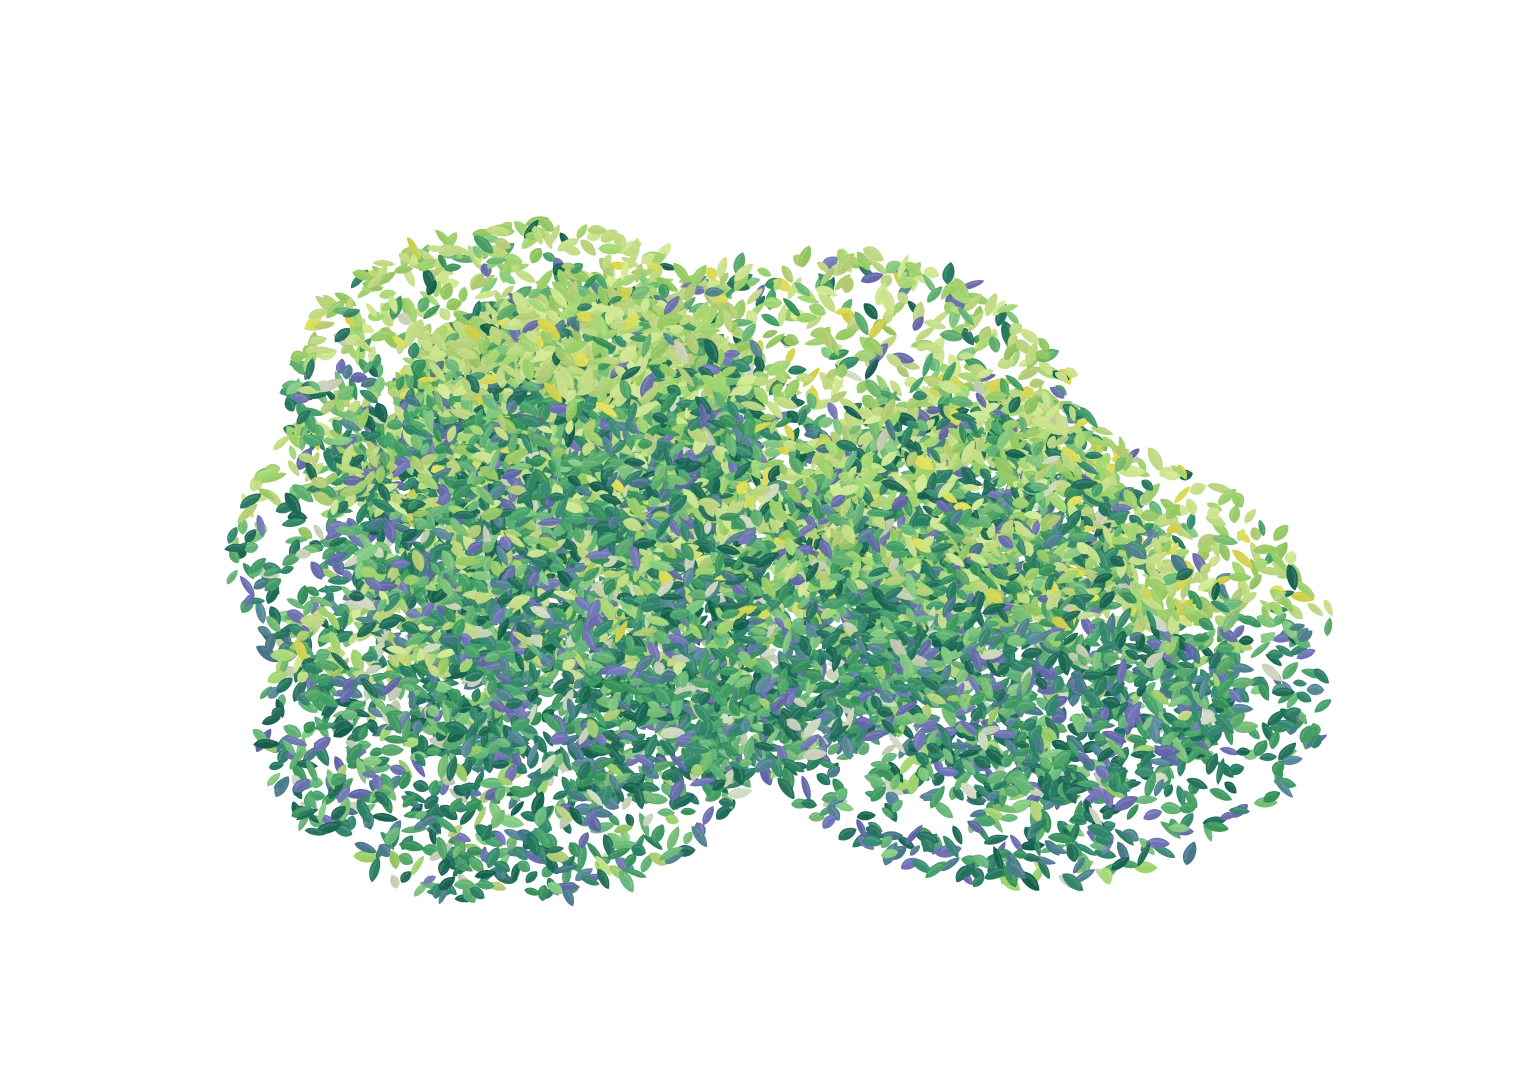
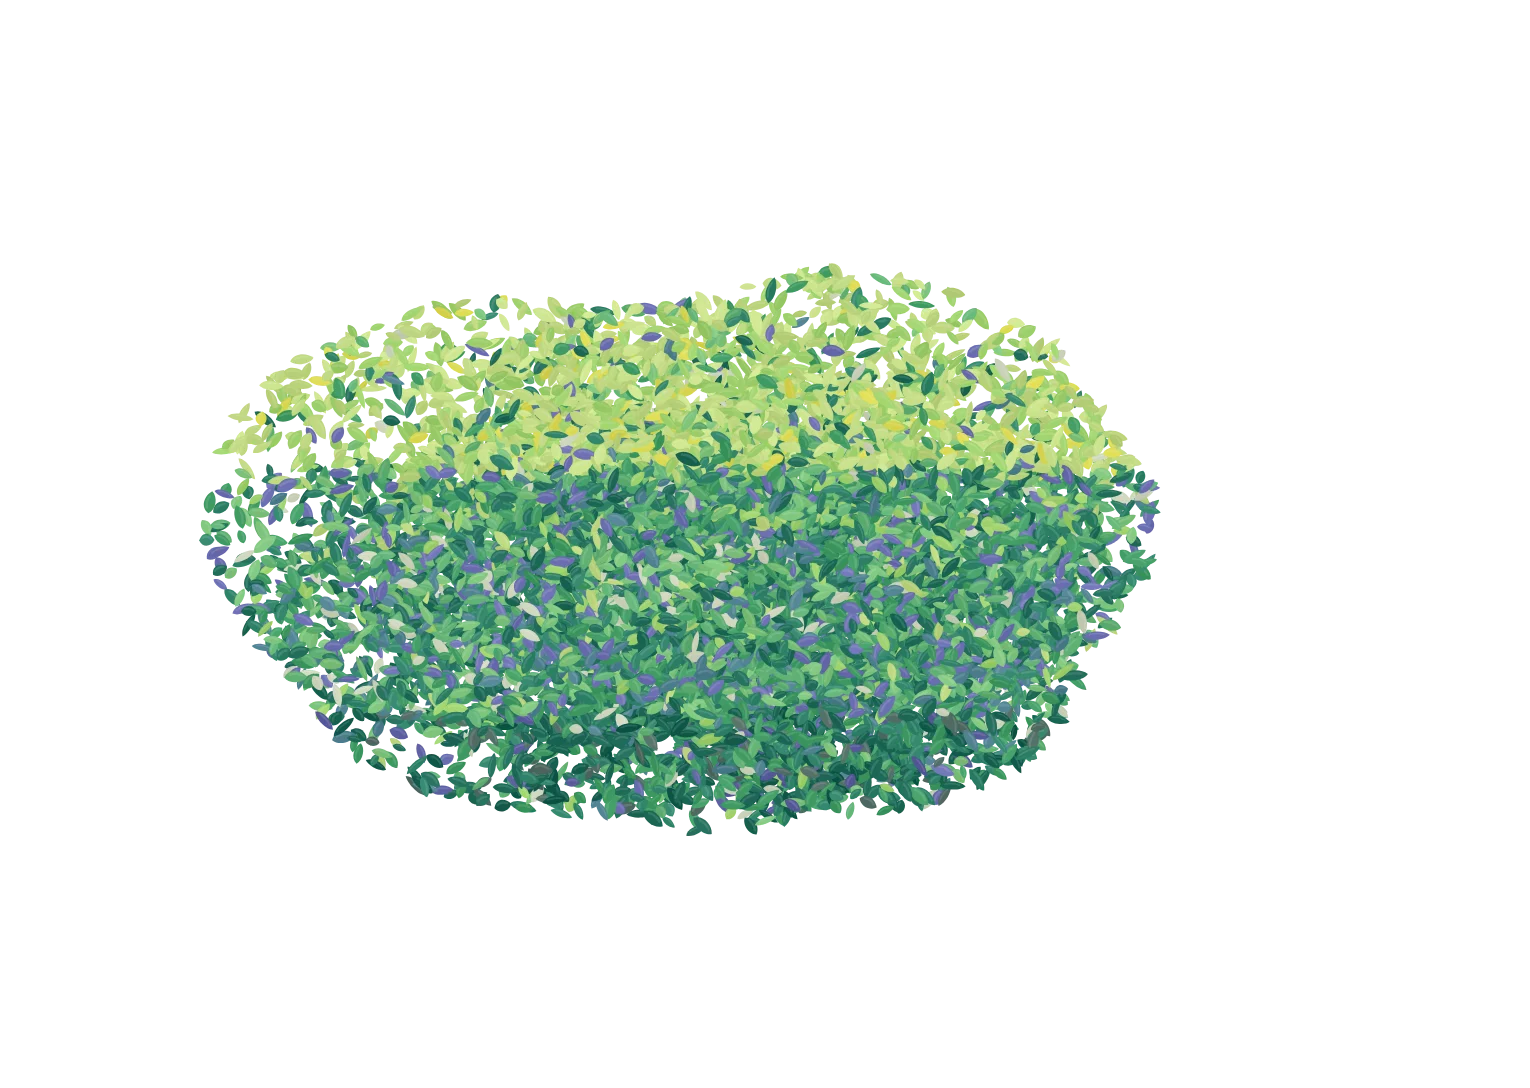
Make every tree an individual you walk past
The screen-pinned leaf ceiling is gone. Each tree now carries its own
rounded Klimt crown on its trunk - lit on top, shaded underneath, sized
per tree - so the wood is made of individual trees that pass you as you
walk. Trees are a little shorter so their crowns are seen whole, and none
stand on the bank, so the floor ends cleanly at the river.

Claude-Session: https://claude.ai/code/session_01L58MorUYAUdsrYZMewZZCv

Changed region(s): [[0.1229, 0.1875, 0.8908, 0.8438]]

diff --git a/assets/js/journey.js b/assets/js/journey.js
@@ -121,6 +121,19 @@
     enqueue(c, list, W, H, true);
     return c;
   }
+  // The leaf ceiling as a tile, seen from below: leaves, shade, a few flecks of sky.
+  function ceilingTile(W, H) {
+    var r = K.rng(7311), n = K.noise2(K.rng(731)), c = off(W, H), x = c.getContext("2d"), list = [];
+    x.fillStyle = "#24503e"; x.fillRect(0, 0, W, H);
+    for (var i = 0; i < 30000; i++) {
+      var u = r(), v = r(), m = n(u * 7, v * 5), sky = r() < 0.022 + Math.max(0, m - 0.62) * 0.15;
+      var col = sky ? "#dfe8d6" : K.pick(m > 0.52 ? K.P.leaf : K.P.dark, r, 0);
+      var size = 0.004 + r() * 0.005;
+      tile(list, [u, v, size, size * (0.45 + r() * 0.2), (r() - 0.5) * 2.8, K.jitter(col, r, 22), r()]);
+    }
+    enqueue(c, list, W, H, true);
+    return c;
+  }
   // The leaf ceiling, seen from below: dense at the top, opening into a ragged edge.
   function canopyLayer(W, H) {
     var r = K.rng(1911), n = K.noise2(K.rng(191)), c = off(W, H), list = [], a = W / H;
@@ -192,16 +205,18 @@
       : kind === "life" ? K.pal([["#e8c96a", 1.6], ["#c9a043", 1.2], ["#a8d050", 2], ["#5a9e44", 2], ["#2f5a3a", 1.4], ["#5a60aa", 1]])
       : K.P.leaf;
     var lights = K.P.light;
-    for (var cI = 0; cI < 12; cI++) {
-      var ccx = CW * (0.26 + r() * 0.48), ccy = CH * (0.3 + r() * 0.36), rad2 = CH * (0.12 + r() * 0.09);
-      for (var j = 0; j < 1100; j++) {
+    var lobes = kind === "birch" ? 7 : 10;
+    for (var cI = 0; cI < lobes; cI++) {
+      var ang0 = (cI / lobes) * 6.283, ccx = CW * (0.5 + Math.cos(ang0) * 0.2 * r() * 1.2), ccy = CH * (0.53 + Math.sin(ang0) * 0.12 * r()), rad2 = CH * (0.14 + r() * 0.07);
+      for (var j = 0; j < 1300; j++) {
         var an = r() * 6.2832, dd = Math.sqrt(r()), qx = ccx + Math.cos(an) * dd * rad2 * 1.35, qy = ccy + Math.sin(an) * dd * rad2;
-        var rel = (qy - ccy) / rad2, c2 = rel < -0.2 && r() < 0.7 ? K.pick(lights, r, 0) : K.pick(leaves, r, Math.max(0, rel + 0.4));
+        var relC = (qy - CH * 0.53) / (CH * 0.28), rel = (qy - ccy) / rad2;
+        var c2 = relC < -0.35 && r() < 0.75 ? K.pick(lights, r, 0) : relC > 0.45 && r() < 0.7 ? K.pick(K.P.dark, r, 0) : K.pick(leaves, r, Math.max(0, rel + 0.4));
         cl.push([qx / CH, qy / CH, (4 + r() * 4) / CH, (2.2 + r() * 2) / CH, (r() - 0.5) * 2.8, K.jitter(c2, r, 22), r()]);
       }
     }
     enqueue(crown, cl, CH * RES, CH * RES, true);
-    var sp = { trunk: trunk, crown: crown, TW: TW, TH: TH, CW: CW, CH: CH, lean: lean, hasCrown: kind !== "birch" || r() < 0.75, seed: seed, kind: kind };
+    var sp = { trunk: trunk, crown: crown, TW: TW, TH: TH, CW: CW, CH: CH, lean: lean, hasCrown: true, seed: seed, kind: kind };
     // spirals go on after the bark is painted
     if (spirals.length) queue.splice(1, 0, { c: trunk.getContext("2d"), list: [], w: 0, h: 0, i: 0, after: function (tc) {
       tc.save(); tc.scale(RES, RES); tc.lineCap = "round";
@@ -234,7 +249,7 @@
   // ——— the world ——————————————————————————————————————————————————————————
   // the canvas renders at 1x: the brushwork is soft by nature and it keeps every frame light
   var dpr = EXPORT ? 1.5 : 1, VW = 0, VH = 0;
-  var ground = null, path = null, canopy = null, sprites = [], trees = [], motes = [], vista;
+  var ground = null, path = null, ceiling = null, sprites = [], trees = [], motes = [], vista;
   var Z_END = 9.4; // where the wood ends at the riverbank
   function layout() {
     VW = stage.clientWidth; VH = stage.clientHeight;
@@ -250,7 +265,7 @@
     var liveTree = function (i) { return function () { var t = tree(500 + i * 37, kinds[i]); for (var key in t) slots[i][key] = t[key]; }; };
     var liveSurfaces = function () {
       var G = EXPORT ? [2400, 1600] : [1200, 800], Pp = EXPORT ? [480, 1600] : [240, 800], C = EXPORT ? [3000, 1300] : [1600, 700];
-      ground = groundTile(G[0], G[1]); path = pathTile(Pp[0], Pp[1]); canopy = canopyLayer(C[0], C[1]);
+      ground = groundTile(G[0], G[1]); path = pathTile(Pp[0], Pp[1]); ceiling = ceilingTile(G[0], G[1]);
     };
     if (A) {
       // the painted assets: load them; any that fail are painted live instead
@@ -263,7 +278,7 @@
       if (A.ground) {
         asset(A.ground, liveSurfaces, function (b) { ground = b; });
         asset(A.path, null, function (b) { path = b; });
-        asset(A.canopy, null, function (b) { canopy = b; });
+        if (A.ceiling) asset(A.ceiling, null, function (b) { ceiling = b; });
       } else steps.push(liveSurfaces);
     } else {
       kinds.forEach(function (k, i) { steps.push(liveTree(i)); });
@@ -272,11 +287,11 @@
     sprites = slots;
     var r = K.rng(77);
     // a dense wood in depth, with a path of light down the middle
-    for (var z = 0.8; z < Z_END - 0.3; z += 0.34) {
-      var thin = 1 - smooth(Z_END - 1.8, Z_END - 0.3, z), count = Math.round((6 + Math.floor(r() * 4)) * (0.2 + 0.8 * thin));
+    for (var z = 0.8; z < Z_END - 1.0; z += 0.34) {
+      var thin = 1 - smooth(Z_END - 2.4, Z_END - 1.0, z), count = Math.round((6 + Math.floor(r() * 4)) * (0.2 + 0.8 * thin));
       for (var k = 0; k < count; k++) {
         var side = r() < 0.5 ? -1 : 1, x = side * (0.42 + z * 0.05 + Math.pow(r(), 1.2) * 5);
-        trees.push({ x: x, z: z + r() * 0.3, h: 2.8 + r() * 1.8, sp: sprites[Math.floor(r() * sprites.length)], phase: r() * 6.28, stiff: 0.55 + r() * 0.8 });
+        trees.push({ x: x, z: z + r() * 0.3, h: 2.3 + r() * 1.3, sp: sprites[Math.floor(r() * sprites.length)], phase: r() * 6.28, stiff: 0.55 + r() * 0.8 });
       }
     }
     trees.sort(function (a, b) { return b.z - a.z; });
@@ -395,9 +410,9 @@
       var twd = hgt * sp.TW / sp.TH;
       c.drawImage(sp.trunk, -twd / 2, -hgt, twd, hgt);
       if (sp.hasCrown && ready(sp.crown)) {
-        c.translate(sp.lean / sp.TW * twd, -hgt * 0.86);
-        var cw = hgt * 1.05, ch = cw * sp.CH / sp.CW;
-        c.drawImage(sp.crown, -cw / 2, -ch * 0.78, cw, ch);
+        c.translate(sp.lean / sp.TW * twd * 0.8, -hgt * 0.74);
+        var cw = hgt * (sp.kind === "birch" ? 0.78 : 1.0) * (0.92 + (tr.phase % 1) * 0.2), ch = cw * sp.CH / sp.CW;
+        c.drawImage(sp.crown, -cw / 2, -ch * 0.72, cw, ch);
       }
       c.restore();
     }
@@ -412,13 +427,6 @@
         c.moveTo(bx, top); c.lineTo(bx + bw, top); c.lineTo(bx + bw + VH * b[2] * -1.1, VH * 0.95); c.lineTo(bx + VH * b[2] * -0.7, VH * 0.95); c.closePath(); c.fill();
       });
       c.restore();
-    }
-    // the leaf ceiling overhead; it lifts away as the wood opens
-    if (ready(canopy) && exitC < 1) {
-      var cs = 1 + walk * 0.35, cwid = VW * 1.08 * cs, chei = cwid * canopy.height / canopy.width;
-      chei = Math.max(chei, VH * 0.62 * cs);
-      c.globalAlpha = 1 - smooth(0.3, 0.8, exitC);
-      c.drawImage(canopy, cx - cwid / 2, -exitC * chei * 0.95 - VH * 0.04, cwid, chei);
     }
     // drifting gold, spirals and leaves
     var ma = (1 - exitC) * (calm ? 0 : 1);
@@ -465,7 +473,7 @@
     for (var y = Math.max(horizon + 1, Math.floor(yEdge)); y < VH; y += step) {
       var dz = 0.95 * unit / (y + step * 0.5 - horizon), z = dz + camZ, sc = unit / dz * 1.15;
       var v = (((z % 4) + 4) % 4) / 4, sy = Math.min(gh - 3, v * gh), sh = Math.max(1, gh * 0.006);
-      c.globalAlpha = 1 - smooth(Z_END - 0.5, Z_END, z);
+      c.globalAlpha = 1 - smooth(Z_END - 0.3, Z_END, z);
       var w = 12 * sc, x0 = cx - 6 * sc;
       x0 -= Math.ceil(x0 / w) * w;
       for (var x = x0; x < VW; x += w) c.drawImage(ground, 0, sy, gw, sh, x, y, w + 1, step + 0.7);
@@ -475,6 +483,23 @@
       }
     }
     // a shadow under the trees near the horizon, lifting as you leave
+    c.globalAlpha = 1;
+  }
+  // The leaf ceiling in perspective, overhead: you walk under it, and it ends where the wood ends.
+  var CEIL = 2.1, C_END = Z_END - 0.6;
+  function drawCeiling(c, horizon, unit, cx, camZ) {
+    if (!ready(ceiling)) return;
+    var gw = ceiling.width, gh = ceiling.height, toEnd = C_END - camZ;
+    if (toEnd < 0.05) return;
+    var yEdge = horizon - CEIL * unit / toEnd, step = 3;
+    for (var y = 0; y < Math.min(yEdge, horizon - 2); y += step) {
+      var dz = CEIL * unit / (horizon - (y + step * 0.5)), z = dz + camZ, sc = unit / dz * 1.15;
+      var v = (((z % 4) + 4) % 4) / 4, sy = Math.min(gh - 3, v * gh), sh = Math.max(1, gh * 0.006);
+      c.globalAlpha = 1 - smooth(C_END - 0.7, C_END, z);
+      var w = 12 * sc, x0 = cx - 6 * sc;
+      x0 -= Math.ceil(x0 / w) * w;
+      for (var x = x0; x < VW; x += w) c.drawImage(ceiling, 0, sy, gw, sh, x, y, w + 1, step + 0.7);
+    }
     c.globalAlpha = 1;
   }
   var lastWater = 0;
@@ -523,7 +548,7 @@
     while (steps.length || queue.length) { if (steps.length) steps.shift()(); else pump(5000); }
     window.__klimtExport = {
       trees: sprites.map(function (sp) { return { trunk: sp.trunk.toDataURL("image/webp", 0.86), crown: sp.crown.toDataURL("image/webp", 0.86), TW: sp.TW, TH: sp.TH, CW: sp.CW, CH: sp.CH, lean: sp.lean, hasCrown: sp.hasCrown, seed: sp.seed, kind: sp.kind }; }),
-      ground: ground.toDataURL("image/webp", 0.84), path: path.toDataURL("image/webp", 0.86), canopy: canopy.toDataURL("image/webp", 0.84),
+      ground: ground.toDataURL("image/webp", 0.84), path: path.toDataURL("image/webp", 0.86), ceiling: ceiling.toDataURL("image/webp", 0.84),
       valley: vista.img.toDataURL("image/webp", 0.84),
       glints: []
     };

diff --git a/assets/klimt/assets.js b/assets/klimt/assets.js
@@ -1,2 +1,2 @@
 /* generated by tools/klimt/export.js */
-window.KLIMT_ASSETS = {"v":"202610311332","trees":[{"TW":300,"TH":1300,"CW":900,"CH":640,"lean":-4.668454392813146,"hasCrown":true,"seed":500,"kind":"plane","trunk":"tree-0-trunk.webp","crown":"tree-0-crown.webp"},{"TW":300,"TH":1300,"CW":900,"CH":640,"lean":7.196629885584116,"hasCrown":true,"seed":537,"kind":"plane","trunk":"tree-1-trunk.webp","crown":"tree-1-crown.webp"},{"TW":300,"TH":1300,"CW":900,"CH":640,"lean":6.638929094187915,"hasCrown":true,"seed":574,"kind":"plane","trunk":"tree-2-trunk.webp","crown":"tree-2-crown.webp"},{"TW":300,"TH":1300,"CW":900,"CH":640,"lean":-4.349506390281022,"hasCrown":true,"seed":611,"kind":"plane","trunk":"tree-3-trunk.webp","crown":"tree-3-crown.webp"},{"TW":300,"TH":1300,"CW":900,"CH":640,"lean":3.3004878647625446,"hasCrown":true,"seed":648,"kind":"plane","trunk":"tree-4-trunk.webp","crown":"tree-4-crown.webp"},{"TW":300,"TH":1300,"CW":900,"CH":640,"lean":3.746783626265824,"hasCrown":true,"seed":685,"kind":"plane","trunk":"tree-5-trunk.webp","crown":"tree-5-crown.webp"},{"TW":300,"TH":1300,"CW":900,"CH":640,"lean":3.876586677506566,"hasCrown":true,"seed":722,"kind":"birch","trunk":"tree-6-trunk.webp","crown":"tree-6-crown.webp"},{"TW":300,"TH":1300,"CW":900,"CH":640,"lean":6.294368086382747,"hasCrown":true,"seed":759,"kind":"plane","trunk":"tree-7-trunk.webp","crown":"tree-7-crown.webp"},{"TW":300,"TH":1300,"CW":900,"CH":640,"lean":3.6820182390511036,"hasCrown":true,"seed":796,"kind":"plane","trunk":"tree-8-trunk.webp","crown":"tree-8-crown.webp"},{"TW":300,"TH":1300,"CW":900,"CH":640,"lean":4.660071786493063,"hasCrown":true,"seed":833,"kind":"plane","trunk":"tree-9-trunk.webp","crown":"tree-9-crown.webp"}],"glints":[],"ground":"ground.webp","path":"path.webp","canopy":"canopy.webp","valley":"valley.webp"};
+window.KLIMT_ASSETS = {"v":"202610311338","trees":[{"TW":300,"TH":1300,"CW":900,"CH":640,"lean":-4.668454392813146,"hasCrown":true,"seed":500,"kind":"plane","trunk":"tree-0-trunk.webp","crown":"tree-0-crown.webp"},{"TW":300,"TH":1300,"CW":900,"CH":640,"lean":7.196629885584116,"hasCrown":true,"seed":537,"kind":"plane","trunk":"tree-1-trunk.webp","crown":"tree-1-crown.webp"},{"TW":300,"TH":1300,"CW":900,"CH":640,"lean":6.638929094187915,"hasCrown":true,"seed":574,"kind":"plane","trunk":"tree-2-trunk.webp","crown":"tree-2-crown.webp"},{"TW":300,"TH":1300,"CW":900,"CH":640,"lean":-4.349506390281022,"hasCrown":true,"seed":611,"kind":"plane","trunk":"tree-3-trunk.webp","crown":"tree-3-crown.webp"},{"TW":300,"TH":1300,"CW":900,"CH":640,"lean":3.3004878647625446,"hasCrown":true,"seed":648,"kind":"plane","trunk":"tree-4-trunk.webp","crown":"tree-4-crown.webp"},{"TW":300,"TH":1300,"CW":900,"CH":640,"lean":3.746783626265824,"hasCrown":true,"seed":685,"kind":"plane","trunk":"tree-5-trunk.webp","crown":"tree-5-crown.webp"},{"TW":300,"TH":1300,"CW":900,"CH":640,"lean":3.876586677506566,"hasCrown":true,"seed":722,"kind":"birch","trunk":"tree-6-trunk.webp","crown":"tree-6-crown.webp"},{"TW":300,"TH":1300,"CW":900,"CH":640,"lean":6.294368086382747,"hasCrown":true,"seed":759,"kind":"plane","trunk":"tree-7-trunk.webp","crown":"tree-7-crown.webp"},{"TW":300,"TH":1300,"CW":900,"CH":640,"lean":3.6820182390511036,"hasCrown":true,"seed":796,"kind":"plane","trunk":"tree-8-trunk.webp","crown":"tree-8-crown.webp"},{"TW":300,"TH":1300,"CW":900,"CH":640,"lean":4.660071786493063,"hasCrown":true,"seed":833,"kind":"plane","trunk":"tree-9-trunk.webp","crown":"tree-9-crown.webp"}],"glints":[],"ground":"ground.webp","path":"path.webp","ceiling":"ceiling.webp","valley":"valley.webp"};

diff --git a/wedding.html b/wedding.html
@@ -12,7 +12,7 @@
   <meta property="og:type" content="website">
   <link rel="icon" href="favicon.svg" type="image/svg+xml">
   <link rel="preload" href="assets/fonts/tenor-sans-latin-400-normal.woff2" as="font" type="font/woff2" crossorigin>
-  <link rel="stylesheet" href="assets/css/klimt.css?v=202610311332">
+  <link rel="stylesheet" href="assets/css/klimt.css?v=202610311338">
   <script>document.documentElement.classList.add("js")</script>
 </head>
 <body data-page="wed">
@@ -177,12 +177,12 @@
     <p class="credits" data-i18n="k.credits">Painted for Sanjin &amp; Alma, after Gustav Klimt.</p>
   </footer>
 
-  <script src="assets/js/i18n.js?v=202610311332"></script>
+  <script src="assets/js/i18n.js?v=202610311338"></script>
   <script>window.WEDDING.rsvpEndpoint = "/api/rsvp";</script>
-  <script src="assets/js/site.js?v=202610311332"></script>
-  <script src="assets/js/klimt.js?v=202610311332"></script>
-  <script src="assets/klimt/assets.js?v=202610311332"></script>
-  <script src="assets/js/journey.js?v=202610311332"></script>
-  <script src="assets/js/rsvp.js?v=202610311332"></script>
+  <script src="assets/js/site.js?v=202610311338"></script>
+  <script src="assets/js/klimt.js?v=202610311338"></script>
+  <script src="assets/klimt/assets.js?v=202610311338"></script>
+  <script src="assets/js/journey.js?v=202610311338"></script>
+  <script src="assets/js/rsvp.js?v=202610311338"></script>
 </body>
 </html>

diff --git a/index.html b/index.html
@@ -12,7 +12,7 @@
   <meta property="og:type" content="website">
   <link rel="icon" href="favicon.svg" type="image/svg+xml">
   <link rel="preload" href="assets/fonts/tenor-sans-latin-400-normal.woff2" as="font" type="font/woff2" crossorigin>
-  <link rel="stylesheet" href="assets/css/klimt.css?v=202610311332">
+  <link rel="stylesheet" href="assets/css/klimt.css?v=202610311338">
   <script>document.documentElement.classList.add("js")</script>
 </head>
 <body data-page="std">
@@ -53,11 +53,11 @@
       </div>
     </section>
   </main>
-  <script src="assets/js/i18n.js?v=202610311332"></script>
+  <script src="assets/js/i18n.js?v=202610311338"></script>
   <script>window.WEDDING.rsvpEndpoint = "/api/rsvp";</script>
-  <script src="assets/js/site.js?v=202610311332"></script>
-  <script src="assets/js/klimt.js?v=202610311332"></script>
-  <script src="assets/klimt/assets.js?v=202610311332"></script>
-  <script src="assets/js/journey.js?v=202610311332"></script>
+  <script src="assets/js/site.js?v=202610311338"></script>
+  <script src="assets/js/klimt.js?v=202610311338"></script>
+  <script src="assets/klimt/assets.js?v=202610311338"></script>
+  <script src="assets/js/journey.js?v=202610311338"></script>
 </body>
 </html>

diff --git a/tools/klimt/export.js b/tools/klimt/export.js
@@ -30,7 +30,7 @@ const out = path.join(__dirname, "..", "..", "assets", "klimt");
   });
   manifest.ground = save("ground.webp", data.ground);
   manifest.path = save("path.webp", data.path);
-  manifest.canopy = save("canopy.webp", data.canopy);
+  manifest.ceiling = save("ceiling.webp", data.ceiling);
   manifest.valley = save("valley.webp", data.valley);
   fs.writeFileSync(path.join(out, "assets.js"), "/* generated by tools/klimt/export.js */\nwindow.KLIMT_ASSETS = " + JSON.stringify(manifest) + ";\n");
   const total = fs.readdirSync(out).reduce((n, f) => n + fs.statSync(path.join(out, f)).size, 0);
